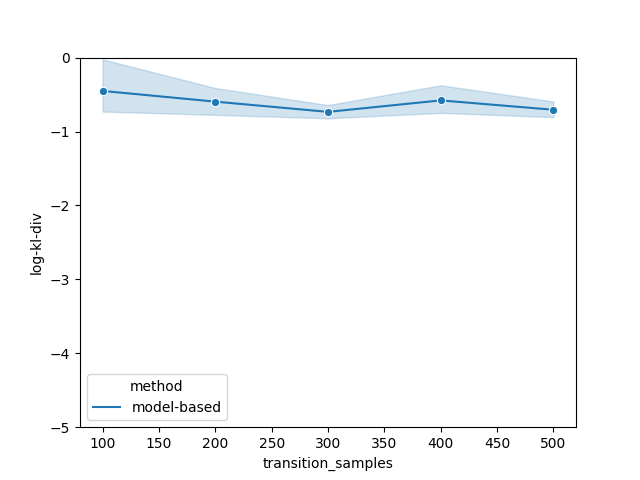
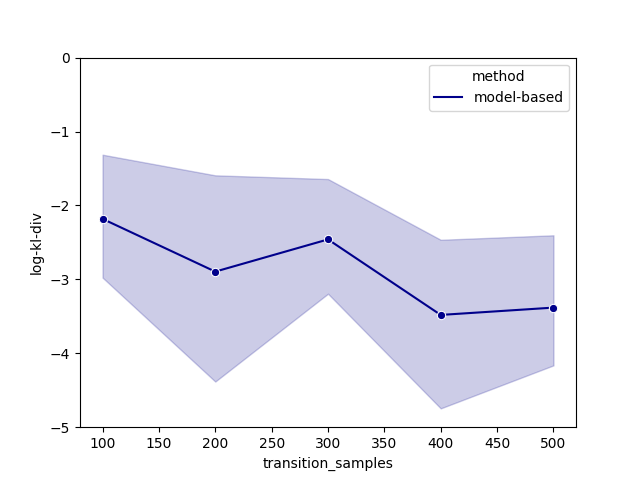
queueing tabular approach
correcting first transition probability in estimation of stationary distribution - variance of estimates still slightly high even with 10 samples.

Changed region(s): [[0.1562, 0.3125, 0.875, 0.875], [0.1562, 0.125, 0.9062, 0.25], [0.125, 0.7812, 0.3438, 0.875]]

diff --git a/queueing.py b/queueing.py
@@ -22,17 +22,16 @@ def build_tabular(state_seq, max_state):
 '''
 
 def estimate_tabular_stationary(transition_mat, iters):
-	eigen_values, eigen_vectors = np.linalg.eig(transition_mat)
-
-	index_ordering = sorted(enumerate(eigen_values), key=lambda x: x[1], reverse=True)
-	index_ordering = [idx for idx, _ in index_ordering]
-	eigen_vectors = eigen_vectors[:][:, index_ordering]
-	# Moore penrose inverse to get the left eigenvectors of the matrix.
-	eigen_vectors = np.matmul(np.linalg.inv(np.matmul(np.transpose(eigen_vectors), 
-							  eigen_vectors) ), np.transpose(eigen_vectors))
-
-	stationary_estimate = eigen_vectors[0,:]/eigen_vectors[0,:].sum()
-	return stationary_estimate
+	stationary_estimate = np.zeros((1,transition_mat.shape[0]))
+	for _ in range(iters):
+		# many transitions and we obtain the last state visited
+		state = 0
+		for _ in range(iters):
+			state = np.random.choice(a=transition_mat.shape[0], 
+									 p=transition_mat[state,:])
+		stationary_estimate[0, state] += 1
+	
+	return (stationary_estimate/stationary_estimate.sum())[0]
 
 '''
 (3) Implement sampling from the transitions of Geo/Geo/1/queue, specified in section D page 17 of the paper.
@@ -41,7 +40,7 @@ Serfozo 2009 for details on the closed form stationary distribution of discrete 
 
 def gg1_step(curr_state, qa, qf):
 	if (curr_state == 0):
-		if (np.random.uniform(low=0.0, high=1.0, size=1) < qa):
+		if (np.random.uniform(low=0.0, high=1.0, size=1) < qa*(1-qf)):
 			return curr_state+1
 		else:
 			return curr_state
@@ -78,12 +77,13 @@ def generate_plots(qa, qf, min_val, max_val, increment, var_name, runs, plot_nam
 	log_kl_dict = {"method":[], var_name: [], 
                   "log-kl-div": []}
 	for transition_samples in range(min_val, max_val+1, increment):
+		print(f"Generating runs for transitions samples = {transition_samples}")
 		num_runs = 0
 		while num_runs < runs:
 			state_seq, max_state = sample_nsteps(n=transition_samples, initial_state=0, qa=qa, qf=qf)
 			tabular_model = build_tabular(state_seq, max_state)
 			
-			estimated = estimate_tabular_stationary(tabular_model, iters=1000)
+			estimated = estimate_tabular_stationary(tabular_model, iters=200)
 			# true distribution only up to a maximum state.
 			true = ground_truth_queueing_stationary(qa, qf, max_state)
 			log_kl = np.log(scipy.stats.entropy(estimated, true))
@@ -93,8 +93,9 @@ def generate_plots(qa, qf, min_val, max_val, increment, var_name, runs, plot_nam
 				log_kl_dict["method"].append("model-based")
 				log_kl_dict["transition_samples"].append(transition_samples)
 				log_kl_dict["log-kl-div"].append(log_kl)
+
 	log_kl_pd = pd.DataFrame(log_kl_dict)
-	log_kl_plot = sns.lineplot(data=log_kl_pd, x="transition_samples", y="log-kl-div", hue="method", marker="o")
+	log_kl_plot = sns.lineplot(data=log_kl_pd, x="transition_samples", y="log-kl-div", hue="method", marker="o", palette=["darkblue"])
 	log_kl_plot.set(ylim=(-5, 0))
 	fig = log_kl_plot.get_figure()
 	fig.savefig(f"{plot_name}.png") 
@@ -109,10 +110,8 @@ def generate_plots_over_qf(qa, min_val, max_val,  runs, plot_name):
 		while num_runs < runs:
 			state_seq, max_state = sample_nsteps(n=200, initial_state=0, qa=qa, qf=qf)
 			tabular_model = build_tabular(state_seq, max_state)
-			print(tabular_model)
-			if (np.linalg.matrix_rank(tabular_model) != tabular_model.shape[0]):
-				continue
-			estimated = estimate_tabular_stationary(tabular_model, iters=1000)
+			
+			estimated = estimate_tabular_stationary(tabular_model, iters=200)
 			true = ground_truth_queueing_stationary(qa, qf, max_state)
 			log_kl = np.log(scipy.stats.entropy(estimated, true))
 			if (log_kl != float("inf")):
@@ -121,7 +120,7 @@ def generate_plots_over_qf(qa, min_val, max_val,  runs, plot_name):
 				log_kl_dict["qf"].append(qf)
 				log_kl_dict["log-kl-div"].append(log_kl)
 	log_kl_pd = pd.DataFrame(log_kl_dict)
-	log_kl_plot = sns.lineplot(data=log_kl_pd, x="qf", y="log-kl-div", hue="method", marker="o")
+	log_kl_plot = sns.lineplot(data=log_kl_pd, x="qf", y="log-kl-div", hue="method", marker="o", color="darkblue")
 	log_kl_plot.set(ylim=(-5, 0))
 	fig = log_kl_plot.get_figure()
 	fig.savefig(f"{plot_name}.png")
@@ -130,10 +129,11 @@ if __name__ == "__main__":
 	qa, qf = 0.8, 0.9
 	min_transitions, max_transitions = 100, 500
 	runs = 10
-	
-	state_seq, max_state = sample_nsteps(n=200, initial_state=0, qa=qa, qf=qf)
+	'''	
+	state_seq, max_state = sample_nsteps(n=100, initial_state=0, qa=qa, qf=qf)
 	tabular_model = build_tabular(state_seq, max_state)
-	estimated = estimate_tabular_stationary(tabular_model, iters=1000)
+	print(tabular_model)
+	estimated = estimate_tabular_stationary(tabular_model, iters=200)
 	# true distribution only up to a maximum state.
 	true = ground_truth_queueing_stationary(qa, qf, max_state)
 	print(estimated)
@@ -141,7 +141,7 @@ if __name__ == "__main__":
 	log_kl = np.log(scipy.stats.entropy(estimated, true))
 
 	print(log_kl)
-	
-	#generate_plots(qa, qf, min_transitions, max_transitions, 100, "transition_samples", runs, "figure2")
-	#generate_plots_over_qf(qa, 0.82, 0.90, runs, "figure2_qf")
+	'''
+	generate_plots(qa, qf, min_transitions, max_transitions, 100, "transition_samples", runs, "figure2")
+	# generate_plots_over_qf(qa, 0.82, 0.90, runs, "figure2_qf")
 	
